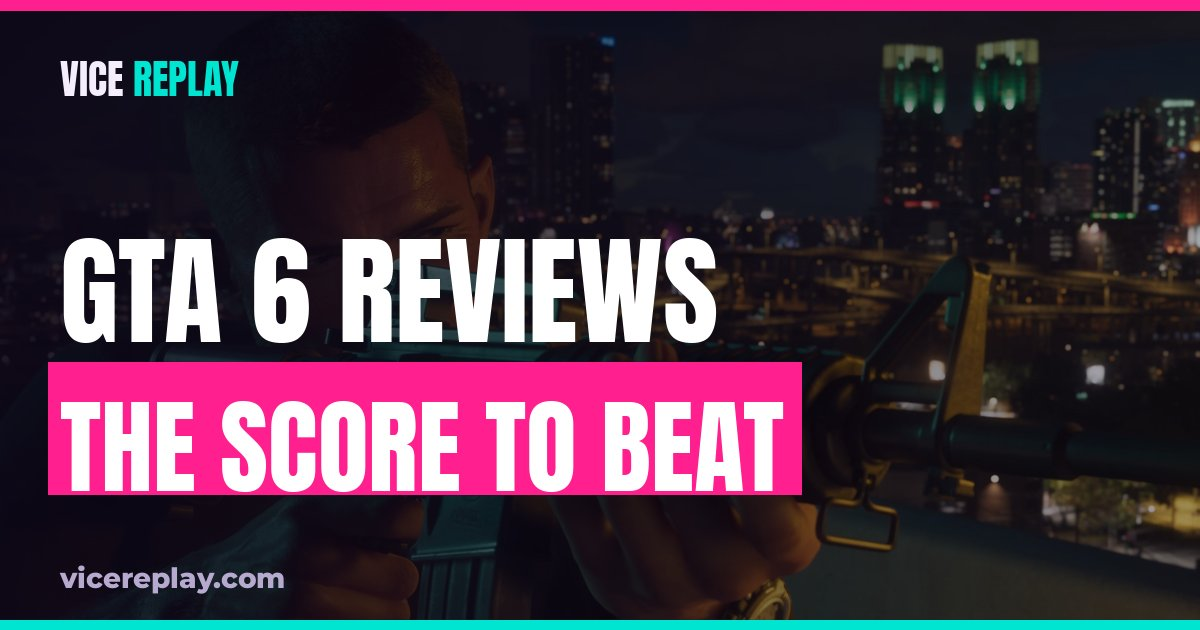
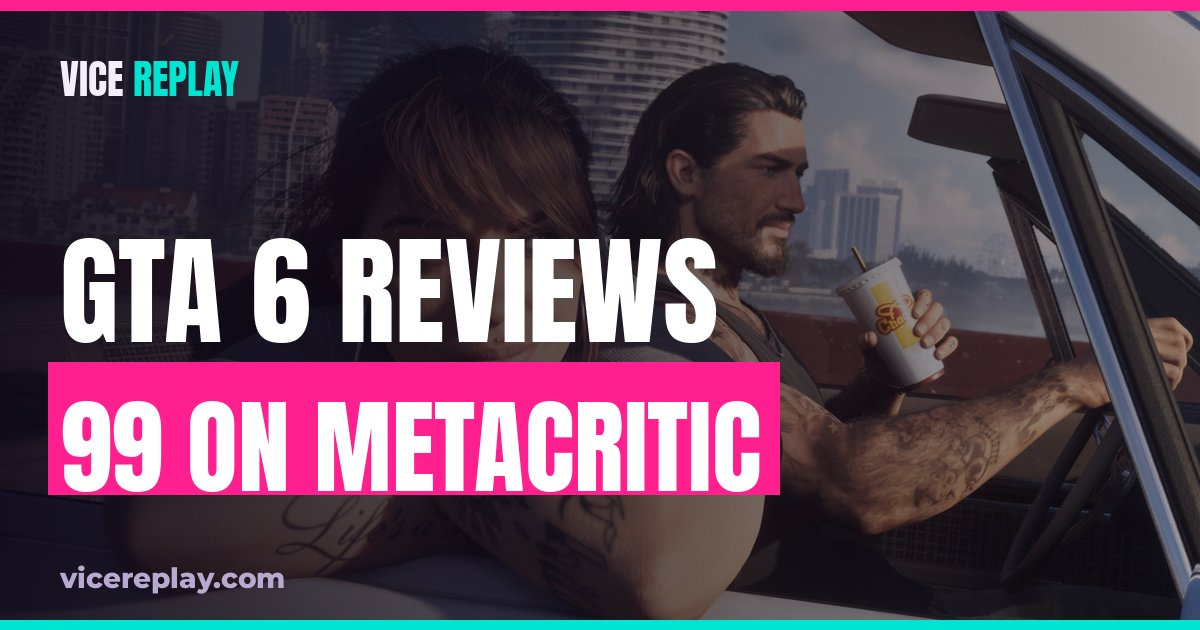
Reviews: 99 on Metacritic; live update
Claude-Session: https://claude.ai/code/session_01CJRsWP9GjYTirqgQXefGyG

diff --git a/guides/gta-6-reviews/index.html b/guides/gta-6-reviews/index.html
@@ -3,12 +3,12 @@
 <head>
 <meta charset="utf-8">
 <meta name="viewport" content="width=device-width,initial-scale=1,viewport-fit=cover">
-<title>GTA 6 Reviews: When They Drop and the Score to Beat · Vice Replay</title>
-<meta name="description" content="When do GTA 6 reviews come out? The embargo is reportedly November 18, the day before launch. Plus the Metacritic scores GTA 6 has to beat.">
+<title>GTA 6 Reviews: 99 on Metacritic, Tied for the Best Score Ever · Vice Replay</title>
+<meta name="description" content="GTA 6 reviews are in: 99 on Metacritic and OpenCritic, tied with Zelda: Ocarina of Time for the highest score ever, with no mixed or negative reviews. What critics loved and the one common complaint.">
 <link rel="canonical" href="https://vicereplay.com/guides/gta-6-reviews/">
-<meta property="og:type" content="article"><meta property="og:title" content="GTA 6 Reviews: When They Drop and the Score to Beat · Vice Replay"><meta property="og:description" content="When do GTA 6 reviews come out? The embargo is reportedly November 18, the day before launch. Plus the Metacritic scores GTA 6 has to beat.">
+<meta property="og:type" content="article"><meta property="og:title" content="GTA 6 Reviews: 99 on Metacritic, Tied for the Best Score Ever · Vice Replay"><meta property="og:description" content="GTA 6 reviews are in: 99 on Metacritic and OpenCritic, tied with Zelda: Ocarina of Time for the highest score ever, with no mixed or negative reviews. What critics loved and the one common complaint.">
 <meta property="og:url" content="https://vicereplay.com/guides/gta-6-reviews/"><meta property="og:site_name" content="Vice Replay"><meta property="og:image" content="https://vicereplay.com/og/gta-6-reviews.jpg"><meta property="og:image:width" content="1200"><meta property="og:image:height" content="630">
-<meta name="twitter:card" content="summary_large_image"><meta name="twitter:title" content="GTA 6 Reviews: When They Drop and the Score to Beat · Vice Replay"><meta name="twitter:description" content="When do GTA 6 reviews come out? The embargo is reportedly November 18, the day before launch. Plus the Metacritic scores GTA 6 has to beat."><meta name="twitter:image" content="https://vicereplay.com/og/gta-6-reviews.jpg">
+<meta name="twitter:card" content="summary_large_image"><meta name="twitter:title" content="GTA 6 Reviews: 99 on Metacritic, Tied for the Best Score Ever · Vice Replay"><meta name="twitter:description" content="GTA 6 reviews are in: 99 on Metacritic and OpenCritic, tied with Zelda: Ocarina of Time for the highest score ever, with no mixed or negative reviews. What critics loved and the one common complaint."><meta name="twitter:image" content="https://vicereplay.com/og/gta-6-reviews.jpg">
 <meta name="theme-color" content="#0d0717">
 <link rel="icon" href="/favicon.png">
 <link rel="stylesheet" href="https://fonts.googleapis.com/css2?family=Anton&family=Montserrat:wght@500;700;800&display=swap">
@@ -36,26 +36,25 @@ a{color:var(--cyan)}p{margin:0 0 14px}ul.list{padding-left:22px}ul.list li{margi
 .cards{display:grid;gap:12px}.card{display:block;background:var(--panel);border:1px solid var(--line);border-radius:14px;padding:16px 18px;color:var(--fg);text-decoration:none}
 .card:hover{border-color:var(--pink)}.card b{font-size:18px;display:block;line-height:1.3}.card small{color:var(--muted)}
 .sources{font-size:14px;color:var(--muted)}.sources a{word-break:break-word}
-footer{margin-top:44px;color:var(--muted);font-size:13px;border-top:1px solid var(--line);padding-top:16px}</style><script type="application/ld+json">{"@context": "https://schema.org", "@type": "Article", "headline": "GTA 6 Reviews: When They Drop and the Score to Beat", "description": "When do GTA 6 reviews come out? The embargo is reportedly November 18, the day before launch. Plus the Metacritic scores GTA 6 has to beat.", "image": ["https://vicereplay.com/og/gta-6-reviews.jpg"], "datePublished": "2026-11-17", "dateModified": "2026-11-17", "inLanguage": "en", "author": {"@type": "Organization", "name": "Vice Replay", "url": "https://www.youtube.com/@vicereplaytv-q8s"}, "publisher": {"@type": "Organization", "name": "Vice Replay", "url": "https://vicereplay.com/", "logo": {"@type": "ImageObject", "url": "https://vicereplay.com/favicon.png"}}, "mainEntityOfPage": "https://vicereplay.com/guides/gta-6-reviews/"}</script><script type="application/ld+json">{"@context": "https://schema.org", "@type": "FAQPage", "mainEntity": [{"@type": "Question", "name": "When do GTA 6 reviews come out?", "acceptedAnswer": {"@type": "Answer", "text": "The review embargo is reportedly November 18, 2026, one day before launch. Rockstar hasn't confirmed the date."}}]}</script>
+footer{margin-top:44px;color:var(--muted);font-size:13px;border-top:1px solid var(--line);padding-top:16px}</style><script type="application/ld+json">{"@context": "https://schema.org", "@type": "Article", "headline": "GTA 6 Reviews: 99 on Metacritic, Tied for the Best Score Ever", "description": "GTA 6 reviews are in: 99 on Metacritic and OpenCritic, tied with Zelda: Ocarina of Time for the highest score ever, with no mixed or negative reviews. What critics loved and the one common complaint.", "image": ["https://vicereplay.com/og/gta-6-reviews.jpg"], "datePublished": "2026-11-18", "dateModified": "2026-11-18", "inLanguage": "en", "author": {"@type": "Organization", "name": "Vice Replay", "url": "https://www.youtube.com/@vicereplaytv-q8s"}, "publisher": {"@type": "Organization", "name": "Vice Replay", "url": "https://vicereplay.com/", "logo": {"@type": "ImageObject", "url": "https://vicereplay.com/favicon.png"}}, "mainEntityOfPage": "https://vicereplay.com/guides/gta-6-reviews/"}</script><script type="application/ld+json">{"@context": "https://schema.org", "@type": "FAQPage", "mainEntity": [{"@type": "Question", "name": "What is GTA 6's Metacritic score?", "acceptedAnswer": {"@type": "Answer", "text": "99, tied with The Legend of Zelda: Ocarina of Time for the highest score in Metacritic's history (as of November 18, 2026)."}}, {"@type": "Question", "name": "Does GTA 6 have any bad reviews?", "acceptedAnswer": {"@type": "Answer", "text": "As of November 18, 2026, there were no mixed or negative reviews on Metacritic."}}]}</script>
 </head>
 <body>
 <div class="wrap">
 <nav><a class="brand" href="/">VICE <b>REPLAY</b></a><div class="menu"><a href="/guides/">Guides</a><a href="/gear/">Gear</a><a href="https://www.youtube.com/@vicereplaytv-q8s" target="_blank" rel="noopener">YouTube</a></div></nav>
 <main>
-<h1>GTA 6 reviews: <span>the score to beat</span></h1>
-<p class="meta">Updated November 17, 2026 · Vice Replay · We'll update this when reviews are out</p>
-<p class="lede">GTA 6 reviews are reportedly coming <b>November 18</b>, one day before launch. Here's what's known, and the scores Rockstar has to beat.</p>
-<h2>When are reviews out?</h2>
-<p>The review embargo is reportedly <b>November 18</b>. Leaker NateTheHate first pointed to that date and several outlets have repeated it, but Rockstar hasn't confirmed it. If it's right, critics' verdicts arrive the day before you can play.</p>
-<h2>Early PlayStation Store ratings? Ignore them</h2>
-<p>A handful of player ratings showed up on the PlayStation Store before launch. It's a tiny sample from people who can't have finished the game, so it says nothing about how good it is.</p>
-<h2>The scores to beat</h2>
-<ul class="list"><li><b>GTA 4:</b> 98 on Metacritic (Xbox 360)</li><li><b>GTA 3:</b> 97</li><li><b>GTA 5:</b> 97</li></ul>
-<p>Anything in the high 90s puts GTA 6 with the best-reviewed games ever. Anything lower will be big news.</p>
-<h2>Already in the awards race</h2>
-<p>GTA 6 got <a href="/guides/gta-6-game-awards-nominations/">8 nominations at The Game Awards 2026</a>, including Game of the Year, before reviews were even out.</p>
-<div class="box"><h3>Gear for GTA 6 (affiliate links)</h3><p>Buying GTA 6 or making room for it? These searches show current options and prices:</p><div class="btns"><a class="item" href="https://www.amazon.com/dp/B0H6K928WL?tag=vicereplay-20" target="_blank" rel="sponsored noopener">GTA 6 for PS5<span aria-hidden="true">→</span></a><a class="item" href="https://www.amazon.com/dp/B0H6K49W6Y?tag=vicereplay-20" target="_blank" rel="sponsored noopener">GTA 6 for Xbox Series X|S<span aria-hidden="true">→</span></a><a class="item" href="https://www.amazon.com/s?k=PS5+compatible+2TB+NVMe+SSD+with+heatsink&tag=vicereplay-20" target="_blank" rel="sponsored noopener">PS5 storage upgrade (2TB NVMe SSD with heatsink)<span aria-hidden="true">→</span></a><a class="item" href="https://www.amazon.com/s?k=Xbox+Series+X+S+storage+expansion+card+2TB&tag=vicereplay-20" target="_blank" rel="sponsored noopener">Xbox Series X|S storage expansion card<span aria-hidden="true">→</span></a><a class="item" href="https://www.amazon.com/tryprimefree?tag=vicereplay-20" target="_blank" rel="sponsored noopener">Free 30-day Amazon Prime trial: fast delivery<span aria-hidden="true">→</span></a></div><p class="sources" style="margin:10px 0 0">Affiliate links: as an Amazon Associate I earn from qualifying purchases, at no extra cost to you. We haven't tested these products; check reviews and compatibility before you buy. <a href="/gear/">All gear picks</a></p></div>
-<h2>Quick answers</h2><div class="box"><h3>When do GTA 6 reviews come out?</h3><p style="margin:0">The review embargo is reportedly November 18, 2026, one day before launch. Rockstar hasn&#x27;t confirmed the date.</p></div><div class="sources"><h2>Sources</h2><ul class="list"><li><a href="https://insider-gaming.com/grand-theft-auto-6-review-embargo/" target="_blank" rel="noopener">Insider Gaming: GTA 6 review embargo</a></li><li><a href="https://dotesports.com/gta/news/gta-6-review-embargo-date" target="_blank" rel="noopener">Dot Esports: review embargo date</a></li><li><a href="https://www.notebookcheck.net/GTA-6-PS5-reviews-already-live-on-PlayStation-Store-before-embargo-and-release-date.1447176.0.html" target="_blank" rel="noopener">Notebookcheck: PS Store reviews before embargo</a></li></ul></div>
+<h1>GTA 6 reviews: <span>99 on Metacritic</span></h1>
+<p class="meta">Updated November 18, 2026 · Vice Replay · Scores can still move as more reviews come in</p>
+<p class="lede">The reviews are in, and they're historic. GTA 6 debuted with a <b>99 on Metacritic</b>, tying <b>The Legend of Zelda: Ocarina of Time</b> (1998) for the highest score in the site's history.</p>
+<div class="box"><h3>The scores (as of November 18)</h3><ul class="list" style="margin:0"><li><b>Metacritic:</b> 99, with no mixed or negative reviews</li><li><b>OpenCritic:</b> 99, with 100% of critics recommending it</li><li><b>Reviews counted:</b> well over 100, about five times as many as Ocarina of Time had</li></ul></div>
+<h2>What critics loved</h2>
+<p>Reviewers praised the open world of Leonida, the story of Jason and Lucia, and how much there is to do. Several called it Rockstar's best game.</p>
+<h2>The one common complaint</h2>
+<p>It runs at <b>30 frames per second</b> on consoles, with no 60 fps mode, and some reviewers mention a learning curve on the controls. <a href="/guides/gta-6-best-settings/">Best settings for GTA 6</a>.</p>
+<h2>Where it ranks</h2>
+<p>Before GTA 6, no game had reached a 99 on Metacritic since 1998. For comparison, GTA 4 has a 98 and GTA 5 a 97.</p>
+<div class="video"><iframe src="https://www.youtube-nocookie.com/embed/S5L5Mah6LIU" title="GTA 6 just got a 99 on Metacritic" loading="lazy" allow="accelerometer; encrypted-media; gyroscope; picture-in-picture; fullscreen" allowfullscreen></iframe></div>
+<div class="box"><h3>Gear for GTA 6 (affiliate links)</h3><p>Getting GTA 6 after the reviews? Links go to the exact listings:</p><div class="btns"><a class="item" href="https://www.amazon.com/dp/B0H6K928WL?tag=vicereplay-20" target="_blank" rel="sponsored noopener">GTA 6 for PS5<span aria-hidden="true">→</span></a><a class="item" href="https://www.amazon.com/dp/B0H6K49W6Y?tag=vicereplay-20" target="_blank" rel="sponsored noopener">GTA 6 for Xbox Series X|S<span aria-hidden="true">→</span></a><a class="item" href="https://www.amazon.com/s?k=PS5+compatible+2TB+NVMe+SSD+with+heatsink&tag=vicereplay-20" target="_blank" rel="sponsored noopener">PS5 storage upgrade (2TB NVMe SSD with heatsink)<span aria-hidden="true">→</span></a><a class="item" href="https://www.amazon.com/s?k=Xbox+Series+X+S+storage+expansion+card+2TB&tag=vicereplay-20" target="_blank" rel="sponsored noopener">Xbox Series X|S storage expansion card<span aria-hidden="true">→</span></a><a class="item" href="https://www.amazon.com/tryprimefree?tag=vicereplay-20" target="_blank" rel="sponsored noopener">Free 30-day Amazon Prime trial: fast delivery<span aria-hidden="true">→</span></a></div><p class="sources" style="margin:10px 0 0">Affiliate links: as an Amazon Associate I earn from qualifying purchases, at no extra cost to you. We haven't tested these products; check reviews and compatibility before you buy. <a href="/gear/">All gear picks</a></p></div>
+<h2>Quick answers</h2><div class="box"><h3>What is GTA 6&#x27;s Metacritic score?</h3><p style="margin:0">99, tied with The Legend of Zelda: Ocarina of Time for the highest score in Metacritic&#x27;s history (as of November 18, 2026).</p></div><div class="box"><h3>Does GTA 6 have any bad reviews?</h3><p style="margin:0">As of November 18, 2026, there were no mixed or negative reviews on Metacritic.</p></div><div class="sources"><h2>Sources</h2><ul class="list"><li><a href="https://www.forbes.com/sites/paultassi/2026/11/18/the-gta-6-metacritic-review-score-is-in-and-ties-an-all-time-record/" target="_blank" rel="noopener">Forbes: Metacritic score ties the all-time record</a></li><li><a href="https://www.gamespot.com/articles/gta-6-has-a-metacritic-score-so-high-its-only-happened-once-before/" target="_blank" rel="noopener">GameSpot: a score so high it&#x27;s only happened once</a></li><li><a href="https://kotaku.com/gta-6-review-scores-99-metacritic-rockstar-grand-theft-auto-vi-2000757999" target="_blank" rel="noopener">Kotaku: 99 Metacritic</a></li><li><a href="https://www.gamesradar.com/games/grand-theft-auto/gta-6-metacritic-score-makes-it-the-highest-rated-game-of-all-time-matching-the-og-zelda-ocarina-of-time/" target="_blank" rel="noopener">GamesRadar: highest-rated game of all time</a></li><li><a href="https://dotesports.com/gta/news/gta-6-review-roundup" target="_blank" rel="noopener">Dot Esports: review roundup</a></li></ul></div>
 </main>
 <footer>Business &amp; sponsors: <a href="mailto:contact@vicereplay.com">contact@vicereplay.com</a> · <a href="/contact/">Work with us</a><br>Vice Replay is a fan channel and is not affiliated with Rockstar Games or Take-Two Interactive. Grand Theft Auto and GTA are trademarks of Take-Two Interactive. As an Amazon Associate I earn from qualifying purchases: some links on this site are affiliate links, at no extra cost to you.</footer>
 </div>

diff --git a/guides/index.html b/guides/index.html
@@ -42,7 +42,7 @@ footer{margin-top:44px;color:var(--muted);font-size:13px;border-top:1px solid va
 <div class="wrap">
 <nav><a class="brand" href="/">VICE <b>REPLAY</b></a><div class="menu"><a href="/guides/">Guides</a><a href="/gear/">Gear</a><a href="https://www.youtube.com/@vicereplaytv-q8s" target="_blank" rel="noopener">YouTube</a><a href="/es/" hreflang="es">ES</a></div></nav>
 <main>
-<h1>GTA 6 <span>guides</span></h1><p class="lede">Quick, sourced GTA 6 guides that go with our videos. No story spoilers. <a href="/es/">En español</a></p><div class="cards"><a class="card" href="/guides/gta-6-launch-live/"><b>GTA 6 Launch: Live Updates, Times and Everything You Need Tonight</b><small>GTA 6 launch live updates: unlock times, YouTube&#x27;s 24-hour stream, reviews, cheats, storage and PC news in one page, updated every day of launch week.</small></a><a class="card" href="/guides/gta-6-storage/"><b>GTA 6 Storage Full? How to Make Room on PS5 and Xbox (212 GB)</b><small>GTA 6 needs up to 212 GB. Free ways to clear space on PS5 and Xbox Series X|S first, then what to look for if you need a storage upgrade.</small></a><a class="card" href="/guides/gta-6-cheats/"><b>GTA 6 Cheat Codes: Confirmed List (and the Fake Ones)</b><small>Are there GTA 6 cheat codes? None are confirmed yet. Here&#x27;s what&#x27;s real, which lists are fake, and our tracker that updates when codes are verified after launch.</small></a><a class="card" href="/guides/gta-6-best-settings/"><b>Best TV and Console Settings for GTA 6 (PS5 and Xbox)</b><small>Get GTA 6 looking and sounding right: TV Game Mode, HDR calibration, motion smoothing off, and console audio settings for PS5 and Xbox Series X|S.</small></a><a class="card" href="/guides/gta-6-black-friday/"><b>GTA 6 Black Friday 2026: Storage, Controllers and the Game</b><small>GTA 6 Black Friday 2026 guide: what&#x27;s worth buying for a 212 GB game (PS5 SSD, Xbox expansion card, controllers), what to skip, and how to spot a real deal.</small></a><a class="card" href="/guides/gta-6-characters/"><b>Every GTA 6 Character Confirmed So Far (No Spoilers)</b><small>Jason Duval, Lucia Caminos and the supporting cast Rockstar has revealed for GTA 6: Cal, Boobie Ike, Dre&#x27;Quan Priest, Real Dimez, Raul Bautista and Brian Heder. No story spoilers.</small></a><a class="card" href="/guides/gta-6-gift-guide/"><b>GTA 6 Gift Guide 2026: Best Gifts for a GTA 6 Fan (PS5 and Xbox)</b><small>Buying for a GTA 6 fan? The game itself, storage for the 212 GB install, a second controller and a headset, plus what to check before you buy (console, region, digital vs box).</small></a><a class="card" href="/guides/gta-6-map-size/"><b>How Big Is the GTA 6 Map? Leonida vs GTA 5 and Red Dead 2</b><small>GTA 6&#x27;s map is reportedly about twice the size of GTA 5&#x27;s, and Vice City alone is said to be twice Los Santos. Here&#x27;s what Rockstar has said and what&#x27;s only estimated.</small></a><a class="card" href="/guides/gta-6-physical-edition/"><b>GTA 6 Physical Edition: No Disc in the Box? What You&#x27;re Actually Buying</b><small>The GTA 6 &#x27;physical&#x27; copies on Amazon are a code in a box with no disc. Here&#x27;s what that means for the 212 GB download, resale and gifting.</small></a><a class="card" href="/guides/gta-6-vs-gta-5/"><b>GTA 6 vs GTA 5: The Biggest Differences Explained</b><small>GTA 6 vs GTA 5: a new state, two leads instead of three, a map about twice as big, a higher price, and no GTA Online or PC version at launch. No spoilers.</small></a><a class="card" href="/guides/gta-6-unlock-time/"><b>GTA 6 Unlock Time: When You Can Play in Every Time Zone</b><small>GTA 6 unlocks at midnight local time on November 19, 2026. Here&#x27;s whose midnight comes first, the US question, Xbox Cloud Gaming and the New Zealand trick.</small></a><a class="card" href="/guides/gta-6-new-zealand-trick/"><b>GTA 6 New Zealand Trick: Can You Play Early, and Is It Safe?</b><small>How the GTA 6 New Zealand trick reportedly works on Xbox, why PS5 is different, and the account risks before you try it.</small></a><a class="card" href="/guides/gta-6-pc-release-date/"><b>GTA 6 on PC: Release Date and What&#x27;s Actually Reported</b><small>GTA 6 launches on PS5 and Xbox Series X|S only. Here&#x27;s what Take-Two has said about PC, the reported early 2027 window, and what&#x27;s still unconfirmed.</small></a><a class="card" href="/guides/gta-6-launch-streams/"><b>GTA 6 Launch Streams: YouTube&#x27;s 24-Hour Livestream and Kai Cenat&#x27;s 100% Marathon</b><small>Where to watch GTA 6 on launch night: YouTube&#x27;s 24-hour livestream with 30+ creators starting November 19, plus Kai Cenat&#x27;s plan to 100% the game on stream.</small></a><a class="card" href="/guides/gta-6-reviews/"><b>GTA 6 Reviews: When They Drop and the Score to Beat</b><small>When do GTA 6 reviews come out? The embargo is reportedly November 18, the day before launch. Plus the Metacritic scores GTA 6 has to beat.</small></a><a class="card" href="/guides/gta-6-game-awards-nominations/"><b>GTA 6 at The Game Awards 2026: 8 Nominations Including Game of the Year</b><small>GTA 6 earned 8 nominations at The Game Awards 2026, including Game of the Year and Best Performance for Lucia&#x27;s actress Manni L. Perez, two days before launch.</small></a><a class="card" href="/guides/gta-6-launch-checklist/"><b>GTA 6 Launch Checklist: Download Size, Price and What&#x27;s Missing on Day One</b><small>GTA 6&#x27;s install is up to 212 GB. Here&#x27;s the launch-night checklist: preload, day-one patch, price, what&#x27;s not there at launch, and how to dodge spoilers.</small></a><a class="card" href="/guides/gta-6-map-leonida-places/"><b>GTA 6 Map: 6 Places in Leonida You Need to Know</b><small>GTA 6 is bigger than Vice City. A quick guide to the six places Rockstar has shown in the state of Leonida: Vice City, Leonida Keys, Grassrivers, Port Gellhorn, Ambrosia and Mount Kalaga.</small></a></div>
+<h1>GTA 6 <span>guides</span></h1><p class="lede">Quick, sourced GTA 6 guides that go with our videos. No story spoilers. <a href="/es/">En español</a></p><div class="cards"><a class="card" href="/guides/gta-6-launch-live/"><b>GTA 6 Launch: Live Updates, Times and Everything You Need Tonight</b><small>GTA 6 launch live updates: unlock times, YouTube&#x27;s 24-hour stream, reviews, cheats, storage and PC news in one page, updated every day of launch week.</small></a><a class="card" href="/guides/gta-6-storage/"><b>GTA 6 Storage Full? How to Make Room on PS5 and Xbox (212 GB)</b><small>GTA 6 needs up to 212 GB. Free ways to clear space on PS5 and Xbox Series X|S first, then what to look for if you need a storage upgrade.</small></a><a class="card" href="/guides/gta-6-cheats/"><b>GTA 6 Cheat Codes: Confirmed List (and the Fake Ones)</b><small>Are there GTA 6 cheat codes? None are confirmed yet. Here&#x27;s what&#x27;s real, which lists are fake, and our tracker that updates when codes are verified after launch.</small></a><a class="card" href="/guides/gta-6-reviews/"><b>GTA 6 Reviews: 99 on Metacritic, Tied for the Best Score Ever</b><small>GTA 6 reviews are in: 99 on Metacritic and OpenCritic, tied with Zelda: Ocarina of Time for the highest score ever, with no mixed or negative reviews. What critics loved and the one common complaint.</small></a><a class="card" href="/guides/gta-6-best-settings/"><b>Best TV and Console Settings for GTA 6 (PS5 and Xbox)</b><small>Get GTA 6 looking and sounding right: TV Game Mode, HDR calibration, motion smoothing off, and console audio settings for PS5 and Xbox Series X|S.</small></a><a class="card" href="/guides/gta-6-black-friday/"><b>GTA 6 Black Friday 2026: Storage, Controllers and the Game</b><small>GTA 6 Black Friday 2026 guide: what&#x27;s worth buying for a 212 GB game (PS5 SSD, Xbox expansion card, controllers), what to skip, and how to spot a real deal.</small></a><a class="card" href="/guides/gta-6-characters/"><b>Every GTA 6 Character Confirmed So Far (No Spoilers)</b><small>Jason Duval, Lucia Caminos and the supporting cast Rockstar has revealed for GTA 6: Cal, Boobie Ike, Dre&#x27;Quan Priest, Real Dimez, Raul Bautista and Brian Heder. No story spoilers.</small></a><a class="card" href="/guides/gta-6-gift-guide/"><b>GTA 6 Gift Guide 2026: Best Gifts for a GTA 6 Fan (PS5 and Xbox)</b><small>Buying for a GTA 6 fan? The game itself, storage for the 212 GB install, a second controller and a headset, plus what to check before you buy (console, region, digital vs box).</small></a><a class="card" href="/guides/gta-6-map-size/"><b>How Big Is the GTA 6 Map? Leonida vs GTA 5 and Red Dead 2</b><small>GTA 6&#x27;s map is reportedly about twice the size of GTA 5&#x27;s, and Vice City alone is said to be twice Los Santos. Here&#x27;s what Rockstar has said and what&#x27;s only estimated.</small></a><a class="card" href="/guides/gta-6-physical-edition/"><b>GTA 6 Physical Edition: No Disc in the Box? What You&#x27;re Actually Buying</b><small>The GTA 6 &#x27;physical&#x27; copies on Amazon are a code in a box with no disc. Here&#x27;s what that means for the 212 GB download, resale and gifting.</small></a><a class="card" href="/guides/gta-6-vs-gta-5/"><b>GTA 6 vs GTA 5: The Biggest Differences Explained</b><small>GTA 6 vs GTA 5: a new state, two leads instead of three, a map about twice as big, a higher price, and no GTA Online or PC version at launch. No spoilers.</small></a><a class="card" href="/guides/gta-6-unlock-time/"><b>GTA 6 Unlock Time: When You Can Play in Every Time Zone</b><small>GTA 6 unlocks at midnight local time on November 19, 2026. Here&#x27;s whose midnight comes first, the US question, Xbox Cloud Gaming and the New Zealand trick.</small></a><a class="card" href="/guides/gta-6-new-zealand-trick/"><b>GTA 6 New Zealand Trick: Can You Play Early, and Is It Safe?</b><small>How the GTA 6 New Zealand trick reportedly works on Xbox, why PS5 is different, and the account risks before you try it.</small></a><a class="card" href="/guides/gta-6-pc-release-date/"><b>GTA 6 on PC: Release Date and What&#x27;s Actually Reported</b><small>GTA 6 launches on PS5 and Xbox Series X|S only. Here&#x27;s what Take-Two has said about PC, the reported early 2027 window, and what&#x27;s still unconfirmed.</small></a><a class="card" href="/guides/gta-6-launch-streams/"><b>GTA 6 Launch Streams: YouTube&#x27;s 24-Hour Livestream and Kai Cenat&#x27;s 100% Marathon</b><small>Where to watch GTA 6 on launch night: YouTube&#x27;s 24-hour livestream with 30+ creators starting November 19, plus Kai Cenat&#x27;s plan to 100% the game on stream.</small></a><a class="card" href="/guides/gta-6-game-awards-nominations/"><b>GTA 6 at The Game Awards 2026: 8 Nominations Including Game of the Year</b><small>GTA 6 earned 8 nominations at The Game Awards 2026, including Game of the Year and Best Performance for Lucia&#x27;s actress Manni L. Perez, two days before launch.</small></a><a class="card" href="/guides/gta-6-launch-checklist/"><b>GTA 6 Launch Checklist: Download Size, Price and What&#x27;s Missing on Day One</b><small>GTA 6&#x27;s install is up to 212 GB. Here&#x27;s the launch-night checklist: preload, day-one patch, price, what&#x27;s not there at launch, and how to dodge spoilers.</small></a><a class="card" href="/guides/gta-6-map-leonida-places/"><b>GTA 6 Map: 6 Places in Leonida You Need to Know</b><small>GTA 6 is bigger than Vice City. A quick guide to the six places Rockstar has shown in the state of Leonida: Vice City, Leonida Keys, Grassrivers, Port Gellhorn, Ambrosia and Mount Kalaga.</small></a></div>
 </main>
 <footer>Business &amp; sponsors: <a href="mailto:contact@vicereplay.com">contact@vicereplay.com</a> · <a href="/contact/">Work with us</a><br>Vice Replay is a fan channel and is not affiliated with Rockstar Games or Take-Two Interactive. Grand Theft Auto and GTA are trademarks of Take-Two Interactive. As an Amazon Associate I earn from qualifying purchases: some links on this site are affiliate links, at no extra cost to you.</footer>
 </div>

diff --git a/guides/gta-6-launch-live/index.html b/guides/gta-6-launch-live/index.html
@@ -43,7 +43,7 @@ footer{margin-top:44px;color:var(--muted);font-size:13px;border-top:1px solid va
 <nav><a class="brand" href="/">VICE <b>REPLAY</b></a><div class="menu"><a href="/guides/">Guides</a><a href="/gear/">Gear</a><a href="https://www.youtube.com/@vicereplaytv-q8s" target="_blank" rel="noopener">YouTube</a><a href="/es/guias/gta-6-lanzamiento-en-vivo/" hreflang="es">ES</a></div></nav>
 <main>
 <h1>GTA 6 launch: <span>live updates</span></h1>
-<p class="meta">Last updated Nov 18, 4 PM ET · Vice Replay · This page is updated every day of launch week</p>
+<p class="meta">Last updated Nov 18, 9 PM ET · Vice Replay · This page is updated every day of launch week</p>
 <p class="lede">GTA 6 comes out on <b>November 19, 2026</b> on PS5 and Xbox Series X|S. Everything you need for launch week is on this page, newest first.</p>
 <div class="box"><h3>Key times (Eastern)</h3><ul class="list" style="margin:0">
 <li><b>Nov 18, ~6 AM:</b> New Zealand unlocks first (PlayStation Store listings)</li>
@@ -52,7 +52,7 @@ footer{margin-top:44px;color:var(--muted);font-size:13px;border-top:1px solid va
 <li><b>Nov 19, midnight local time:</b> GTA 6 unlocks where you are; YouTube's 24-hour stream starts</li>
 <li><b>Nov 19, 1 AM:</b> Xbox Cloud Gaming (Forbes)</li></ul></div>
 <h2>Latest updates</h2>
-<div class="note"><b>Nov 18, 4 PM ET</b><br>Rockstar co-founder Sam Houser issued a rare launch statement: Rockstar tried to make GTA 6 "exceed your expectations" and show what games are capable of (GameSpot, GamesRadar). GameSpot also reports superb reviews and huge sales. <a href="/guides/gta-6-reviews/">Reviews</a>.</div><div class="note"><b>Nov 18, 4 PM ET</b><br>GTA 6 is already playable in New Zealand (it unlocked at 6 AM ET), and some players are using the region trick to play early. A German streamer says Twitch warned him he could be suspended for streaming it early. <a href="/guides/gta-6-new-zealand-trick/">The NZ trick explained</a>.</div><div class="note"><b>Nov 18, 6 AM ET</b><br>Boxed copies of GTA 6 are a code in a box with no disc, according to Amazon's listings, so everyone downloads the full game. <a href="/guides/gta-6-physical-edition/">What that means</a>.</div><div class="note"><b>Nov 17, 10 PM ET</b><br>Our Short on the fake GTA 6 cheat code lists is live, and the launch guides are now in Spanish too: <a href="/es/">guías en español</a>.</div><div class="note"><b>Nov 17, 9 PM ET</b><br>Cheat codes: still none confirmed. Lists going around are recycled GTA 5 codes. <a href="/guides/gta-6-cheats/">Our cheats tracker</a>.</div><div class="note"><b>Nov 17, 12 PM ET</b><br>The Game Awards 2026 nominations: GTA 6 gets 8, including Game of the Year. Lucia's actress, Manni L. Perez, is nominated for Best Performance. <a href="/guides/gta-6-game-awards-nominations/">Details</a>.</div><div class="note"><b>Nov 17</b><br>Reviews are reportedly due November 18, the day before launch (not confirmed by Rockstar). <a href="/guides/gta-6-reviews/">The score to beat</a>.</div><div class="note"><b>Nov 16</b><br>Preload has been live since November 10: the install is up to 212 GB. <a href="/guides/gta-6-storage/">Out of space?</a></div>
+<div class="note"><b>Nov 18, 9 PM ET</b><br>GTA 6 scores <b>99 on Metacritic</b>, tied with Zelda: Ocarina of Time for the highest score ever, with no mixed or negative reviews (Forbes, GameSpot, Kotaku). <a href="/guides/gta-6-reviews/">Review roundup</a>.</div><div class="note"><b>Nov 18, 4 PM ET</b><br>Rockstar co-founder Sam Houser issued a rare launch statement: Rockstar tried to make GTA 6 "exceed your expectations" and show what games are capable of (GameSpot, GamesRadar). GameSpot also reports superb reviews and huge sales. <a href="/guides/gta-6-reviews/">Reviews</a>.</div><div class="note"><b>Nov 18, 4 PM ET</b><br>GTA 6 is already playable in New Zealand (it unlocked at 6 AM ET), and some players are using the region trick to play early. A German streamer says Twitch warned him he could be suspended for streaming it early. <a href="/guides/gta-6-new-zealand-trick/">The NZ trick explained</a>.</div><div class="note"><b>Nov 18, 6 AM ET</b><br>Boxed copies of GTA 6 are a code in a box with no disc, according to Amazon's listings, so everyone downloads the full game. <a href="/guides/gta-6-physical-edition/">What that means</a>.</div><div class="note"><b>Nov 17, 10 PM ET</b><br>Our Short on the fake GTA 6 cheat code lists is live, and the launch guides are now in Spanish too: <a href="/es/">guías en español</a>.</div><div class="note"><b>Nov 17, 9 PM ET</b><br>Cheat codes: still none confirmed. Lists going around are recycled GTA 5 codes. <a href="/guides/gta-6-cheats/">Our cheats tracker</a>.</div><div class="note"><b>Nov 17, 12 PM ET</b><br>The Game Awards 2026 nominations: GTA 6 gets 8, including Game of the Year. Lucia's actress, Manni L. Perez, is nominated for Best Performance. <a href="/guides/gta-6-game-awards-nominations/">Details</a>.</div><div class="note"><b>Nov 17</b><br>Reviews are reportedly due November 18, the day before launch (not confirmed by Rockstar). <a href="/guides/gta-6-reviews/">The score to beat</a>.</div><div class="note"><b>Nov 16</b><br>Preload has been live since November 10: the install is up to 212 GB. <a href="/guides/gta-6-storage/">Out of space?</a></div>
 <h2>Before you play</h2>
 <ul class="list"><li><a href="/guides/gta-6-launch-checklist/">Launch checklist</a>: price, day-one patch, what's missing</li>
 <li><a href="/guides/gta-6-unlock-time/">Unlock time in every time zone</a></li>

diff --git a/index.html b/index.html
@@ -45,7 +45,7 @@ ul { list-style:none; margin:0; padding:0; display:grid; gap:8px; }
   <section class="group"><h2>Latest GTA 6 news</h2><ul class="links">
     <li><a class="item" href="/guides/gta-6-launch-live/" style="outline:2px solid #ff1f8e">🔴 GTA 6 launch: live updates<span aria-hidden="true">→</span></a></li>
     <li><a class="item" href="/guides/gta-6-game-awards-nominations/">GTA 6 is up for Game of the Year<span aria-hidden="true">→</span></a></li>
-    <li><a class="item" href="/guides/gta-6-reviews/">GTA 6 reviews: the score to beat<span aria-hidden="true">→</span></a></li>
+    <li><a class="item" href="/guides/gta-6-reviews/">GTA 6 reviews: 99 on Metacritic<span aria-hidden="true">→</span></a></li>
     <li><a class="item" href="/guides/gta-6-launch-streams/">Launch night: where to watch<span aria-hidden="true">→</span></a></li>
     <li><a class="item" href="/guides/gta-6-pc-release-date/">GTA 6 on PC: when?<span aria-hidden="true">→</span></a></li>
   </ul></section>
